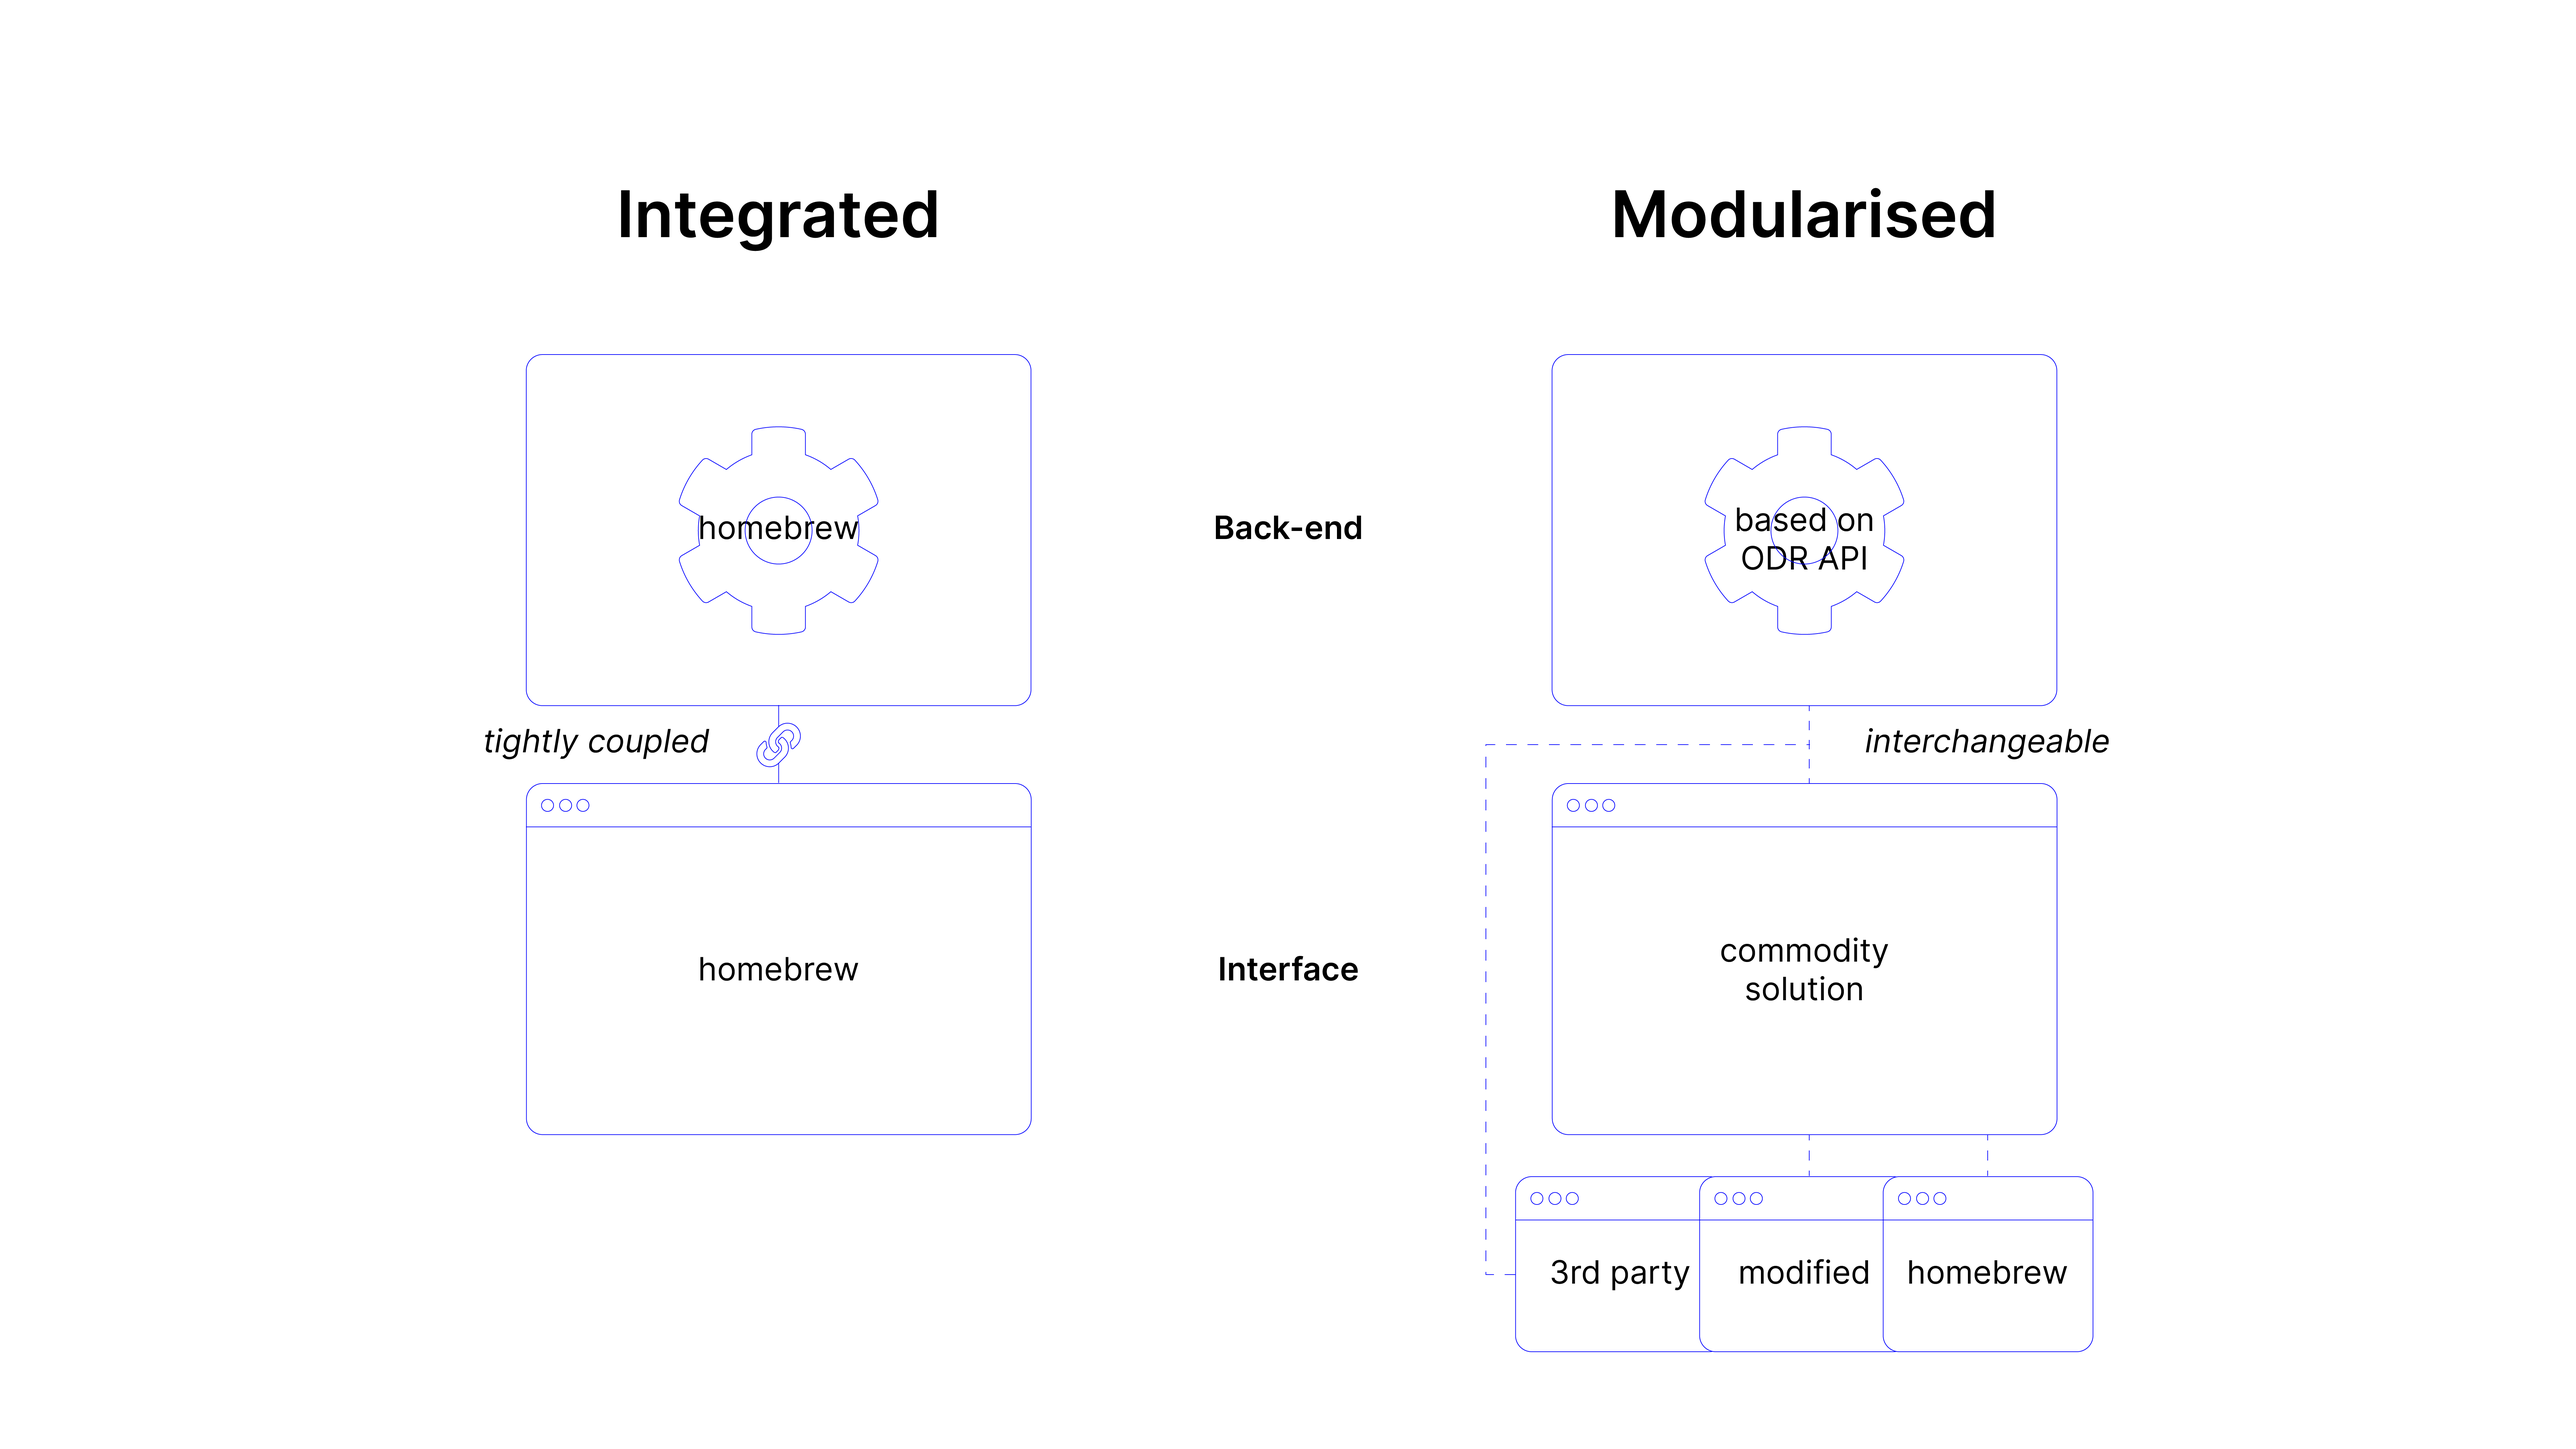
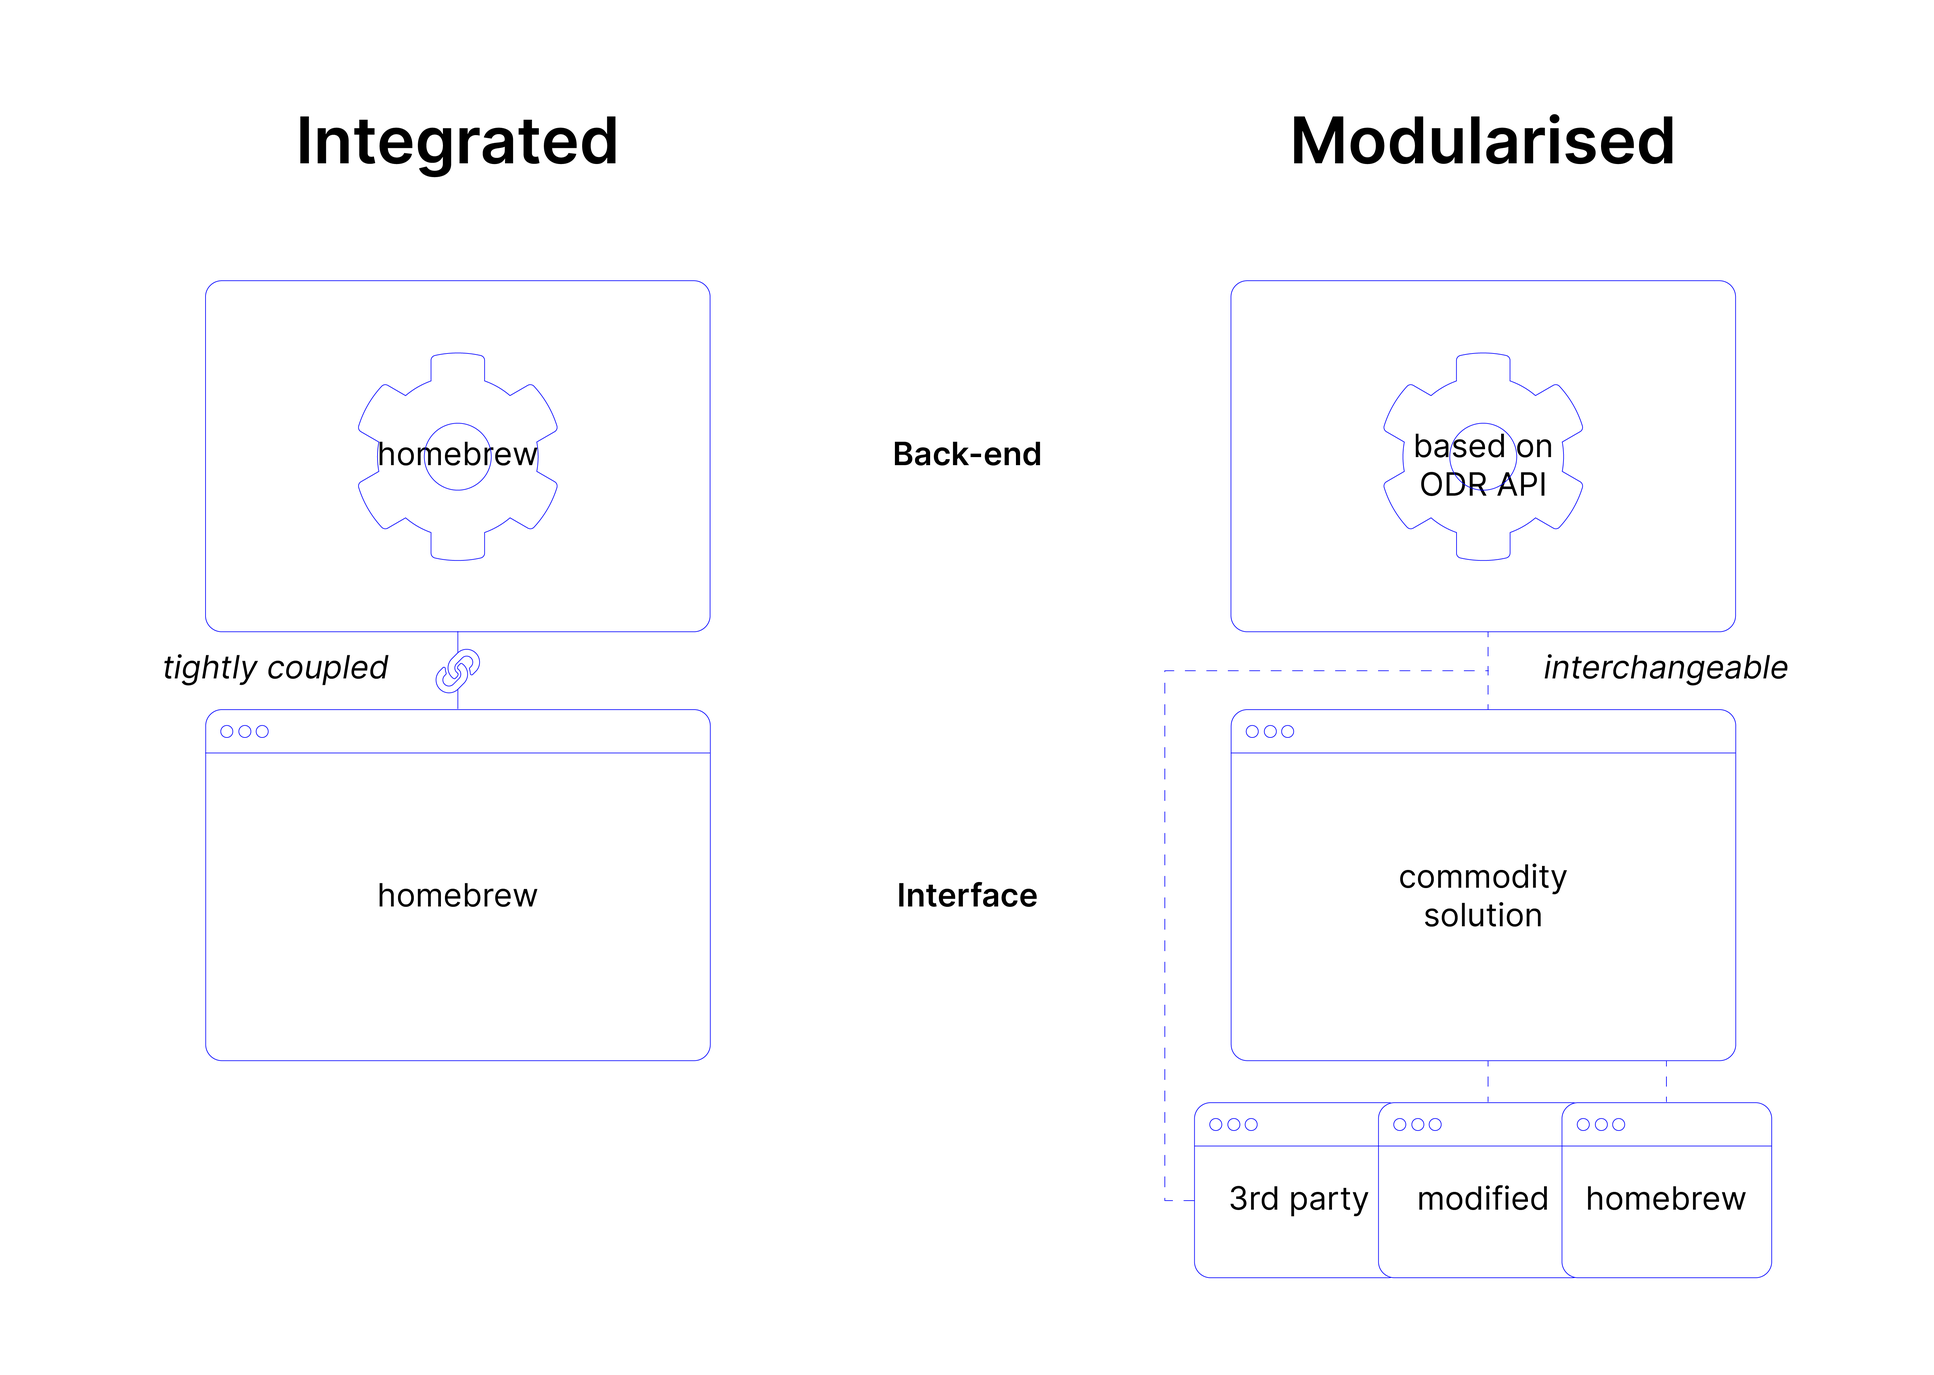
GitBook: [main] one page and 3 assets modified

diff --git a/docs/why-a-data-request-api/modularisation.md b/docs/why-a-data-request-api/modularisation.md
@@ -2,7 +2,7 @@
 
 If an API is standardised and accessible for third parties, the front-end and back-end of any data rights experience is no longer tightly coupled. 
 
-![](../.gitbook/assets/integrated-modularised-architecture-4x%20%281%29.png)
+![](../.gitbook/assets/integrated-modularised-architecture-4x.png)
 
 ### A strict back-end
 
